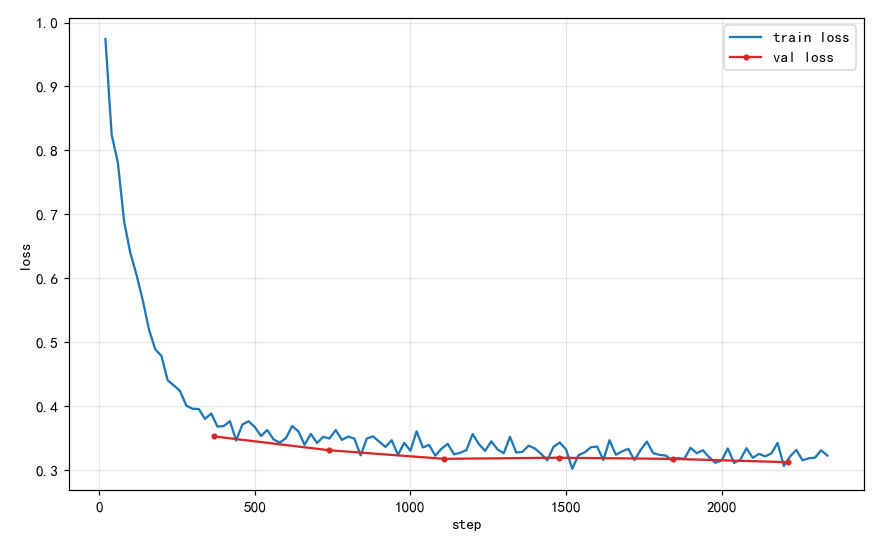
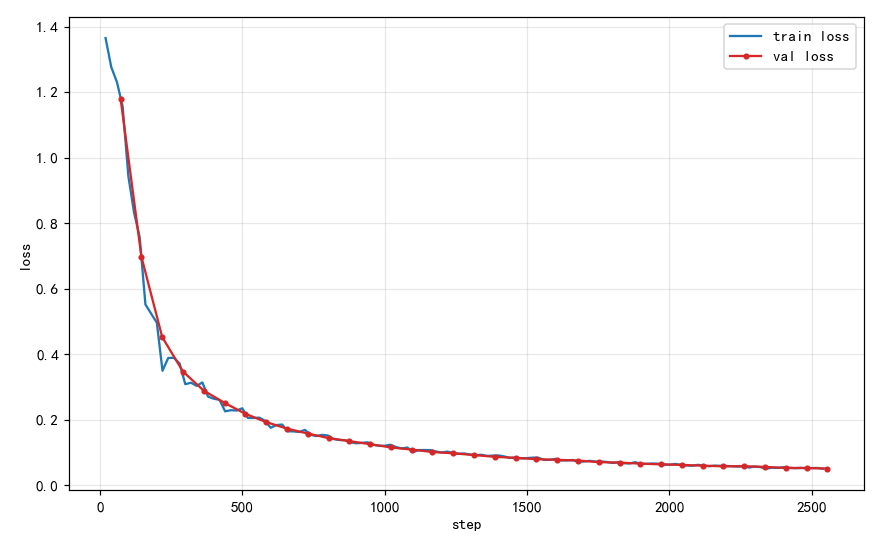
完成初步网络结构校验，但发现了一些问题需要改进的

diff --git a/original/my_track/train_tracker.py b/original/my_track/train_tracker.py
@@ -2,7 +2,7 @@ r"""
 跟踪关联网络前向函数 + 训练入口（自回归 + 冻结 M1）
 ==================================================
 本文件放：
-    - 前向逻辑  _forward_sequence / forward_batch / forward_batch_cold
+    - 前向逻辑  _forward_sequences / forward_batch / forward_batch_cold
     - 训练入口  main()（组装数据/模型/优化器后，调用 train.run_training 跑训练循环）
 
 训练方式（对应方案 A 冻结 M1 + 决策 D-ds2 自回归）：
@@ -55,64 +55,80 @@ from original.my_track.config import *                            # noqa: E402,F
 
 
 # ---------------------------------------------------------------------------
-# 单条序列的逐帧跟踪前向（训练/校验共用，逻辑与原单序列版完全一致）
+# 批量序列的逐帧跟踪前向（时间维自回归串行，batch 维 B 并行；训练/校验共用）
 # ---------------------------------------------------------------------------
-def _forward_sequence(coor_b, conf_b, feat_b, gt_b, bank, mapper, res_gru, scorer,
-                      clutter_weight=CLUTTER_WEIGHT, dt=DT, conf_threshold=CONF_THRESHOLD):
-    """对「一条序列」做逐帧 M2→M8 前向，返回 (损失和, 损失帧数, 分配统计)。
+def _forward_sequences(coor, conf, feat, gt, banks, mapper, res_gru, scorer,
+                       clutter_weight=CLUTTER_WEIGHT, dt=DT, conf_threshold=CONF_THRESHOLD, epoch=0):
+    """对 B 条序列做逐帧 M2→M8 前向，返回 (损失和, 损失帧数, 分配统计)。
+
+    与原单序列版逻辑完全一致，仅把「B 条序列各自 batch=1 前向」合并成
+    「每帧一次 batch=B 前向」：时间维 t 因自回归仍逐帧串行，batch 维 B
+    （序列间相互独立）拼进 M4/M5/M6 的 batch 维并行，把 B×(T-1) 次小 kernel
+    启动压缩为 (T-1) 次 batched 前向。
 
     Args:
-        coor_b  : [T, 50, 2]   该序列每帧量测中心（已由 M1 前向得到）
-        conf_b  : [T, 50, 2]   该序列每帧置信 logits
-        feat_b  : [T, 50, 128] 该序列每帧量测特征
-        gt_b    : [T, 3, 2]    真值中心（空槽 (0,0)）
-        bank    : TrackBank    该序列专属航迹库（M3+M8，无参数）
+        coor  : [B, T, 50, 2]   每条序列每帧量测中心（已由 M1 前向得到）
+        conf  : [B, T, 50, 2]   每条序列每帧置信 logits
+        feat  : [B, T, 50, 128] 每条序列每帧量测特征
+        gt    : [B, T, 3, 2]    真值中心（空槽 (0,0)）
+        banks : list[TrackBank] 长度 B，每条序列一个（M3+M8，无参数）
         mapper/res_gru/scorer : M4/M5/M6（可训练，跨序列共享）
 
     Returns:
-        total_loss : 标量张量（帧内损失累加，未除帧数；训练时带梯度）
-        n_frames   : int  参与损失的帧数（= T-1）
-        assign_hist: list[4] 类 0/1/2/3 的累计量测数（诊断用）
+        total_loss : 标量张量（各帧损失累加，未除帧数；训练时带梯度）
+        n_frames   : int  参与损失的帧数（= B*(T-1)）
+        assign_hist: list[4] 类 0/1/2/3 的累计量测数（合计 = B*(T-1)*50，首帧不计）
     """
-    T = coor_b.shape[0]
+    B, T = coor.shape[0], coor.shape[1]
     total_loss = 0.0
     n_frames = 0
     assign_hist = [0, 0, 0, 0]
 
     for t in range(T):
-        m_pos = coor_b[t]                           # [50,2] 本帧量测中心
-        m_score = F.softmax(conf_b[t], dim=-1)[..., 1]   # [50] 置信度 s_i
-        m_feat = feat_b[t]                          # [50,128] 量测特征 f_i
+        m_pos = coor[:, t]                              # [B,50,2] 本帧量测中心
+        m_score = F.softmax(conf[:, t], dim=-1)[..., 1] # [B,50] 置信度 s_i
+        m_feat = feat[:, t]                             # [B,50,128] 量测特征 f_i
 
         # 首帧只初始化航迹库，不参与损失（无历史可关联）
         if t == 0:
-            bank.init_from_measurements(m_pos, m_score, m_feat)
+            for b in range(B):
+                banks[b].init_from_measurements(m_pos[b], m_score[b], m_feat[b])
             continue
 
+        # 拼接 B 条序列的航迹侧状态，让 M4/M5/M6 一次 batched 前向（batch 维 = B）
+        bank_feat = torch.stack([banks[b].feat for b in range(B)], dim=0)  # [B,3,128]
+        bank_hist = torch.stack([banks[b].hist for b in range(B)], dim=0)  # [B,3,H,4]
+
         # M4 特征映射：量测侧 φ(f_i) 与航迹侧 φ(f_k) 共用同一映射
-        phi_i = mapper(m_feat.unsqueeze(0))         # [1,50,128]
-        phi_k = mapper(bank.feat.unsqueeze(0))      # [1,3,128]
+        phi_i = mapper(m_feat)                          # [B,50,128]
+        phi_k = mapper(bank_feat)                       # [B,3,128]
 
         # M5 几何残差 GRU：量测位置 × 航迹短历史 → 几何一致性特征
-        g_geom = res_gru(m_pos.unsqueeze(0), bank.hist.unsqueeze(0))   # [1,50,3,64]
+        g_geom = res_gru(m_pos, bank_hist)              # [B,50,3,64]
 
         # M6 融合打分：g_geom + 特征相似度 → 4 类打分（0 列杂波）
-        S = scorer(g_geom, phi_i, phi_k)            # [1,50,4]
+        S = scorer(g_geom, phi_i, phi_k)                # [B,50,4]
 
         # M7 监督 + 损失：置信度阈值先筛 + 匈牙利把 GT 槽位伪 ID 映射成量测类标签，加权 CE
-        labels = build_assignment_targets(m_pos.unsqueeze(0), gt_b[t].unsqueeze(0),
-                                          m_score.unsqueeze(0), threshold=conf_threshold)  # [1,50]
-        total_loss = total_loss + association_loss(S, labels, clutter_weight)
-        n_frames += 1
+        labels = build_assignment_targets(m_pos, gt[:, t], m_score,
+                                          threshold=conf_threshold)  # [B,50]
+        # 【口径】association_loss 的 CE 带 class_weights 时 mean 归约 = 除以「各元素
+        # 权值和」而非元素数；若对整批 [B,50] 做一次 mean，会按整批权值和归一化，与
+        # 原逐条版「每条先按自身权值和归一化再求和」量纲不同。故损失仍逐条算再求和
+        # （仅为 B 次极小的 CE kernel，并行收益来自 M4/M5/M6 的 batched 前向，无影响）。
+        for b in range(B):
+            total_loss = total_loss + association_loss(S[b:b + 1], labels[b:b + 1], clutter_weight, epoch=epoch)
+        n_frames += B
 
         # M8 自回归更新：用模型自己的决策（argmax + 1对1）更新航迹，detach 与推理一致
         with torch.no_grad():
-            assignments = associate(S)              # [1,50] ∈ {0,1,2,3}
-            bank.update(assignments[0], m_pos, m_feat, dt=dt)
+            assignments = associate(S)                  # [B,50] ∈ {0,1,2,3}
 
-        # 诊断：统计本帧分配分布
-        for c in range(4):
-            assign_hist[c] += (assignments[0] == c).sum().item()
+        # 逐条更新航迹状态（bank 是每条序列独立对象，非网络前向，开销可忽略）+ 诊断统计
+        for b in range(B):
+            banks[b].update(assignments[b], m_pos[b], m_feat[b], dt=dt)
+            for c in range(4):
+                assign_hist[c] += (assignments[b] == c).sum().item()
 
     return total_loss, n_frames, assign_hist
 
@@ -121,12 +137,12 @@ def _forward_sequence(coor_b, conf_b, feat_b, gt_b, bank, mapper, res_gru, score
 # 批处理前向：M1 批量化一次 + 逐条序列跟踪（训练/校验共用）
 # ---------------------------------------------------------------------------
 def forward_batch(signals, gt, model, banks, mapper, res_gru, scorer,
-                  clutter_weight=CLUTTER_WEIGHT, dt=DT, conf_threshold=CONF_THRESHOLD):
+                  clutter_weight=CLUTTER_WEIGHT, dt=DT, conf_threshold=CONF_THRESHOLD, epoch=0):
     """对 B 条序列做 M1→M8 前向，返回 (平均损失, 损失帧数, 分配统计)。
 
-    逻辑与单序列版完全一致，仅两处变化：
+    逻辑与原实现完全一致，仅两处变化：
         - M1 前端把 B 条序列的帧拼成 [B*T, 8, 89, 10] 一次前向（批量化提速）；
-        - 跟踪部分逐条序列独立跑，各用各的 TrackBank（多序列间无依赖，天然可并行）。
+        - 跟踪部分把 B 条序列拼进 batch 维，每帧一次 batched 前向（见 _forward_sequences）。
 
     Args:
         signals : [B, T, 8, 89, 10] complex64   B 条序列、各 T 帧信号
@@ -148,17 +164,9 @@ def forward_batch(signals, gt, model, banks, mapper, res_gru, scorer,
     conf = conf.reshape(B, T, 50, 2)                 # [B,T,50,2]
     feat = feat.reshape(B, T, 50, 128)               # [B,T,50,128]
 
-    total_loss = 0.0
-    n_frames = 0
-    assign_hist = [0, 0, 0, 0]
-    for b in range(B):
-        loss_b, n_b, ah_b = _forward_sequence(
-            coor[b], conf[b], feat[b], gt[b], banks[b], mapper, res_gru, scorer,
-            clutter_weight=clutter_weight, dt=dt, conf_threshold=conf_threshold)
-        total_loss = total_loss + loss_b
-        n_frames += n_b
-        for c in range(4):
-            assign_hist[c] += ah_b[c]
+    total_loss, n_frames, assign_hist = _forward_sequences(
+        coor, conf, feat, gt, banks, mapper, res_gru, scorer,
+        clutter_weight=clutter_weight, dt=dt, conf_threshold=conf_threshold, epoch=epoch)
 
     return total_loss / n_frames, n_frames, assign_hist
 
@@ -167,11 +175,11 @@ def forward_batch(signals, gt, model, banks, mapper, res_gru, scorer,
 # 批处理前向（冷启动）：直接用缓存 M1 输出，跳过 M1 前向（训练/校验共用）
 # ---------------------------------------------------------------------------
 def forward_batch_cold(out, conf, feat, gt, banks, mapper, res_gru, scorer,
-                       clutter_weight=CLUTTER_WEIGHT, dt=DT, conf_threshold=CONF_THRESHOLD):
+                       clutter_weight=CLUTTER_WEIGHT, dt=DT, conf_threshold=CONF_THRESHOLD, epoch=0):
     """冷启动：对 B 条序列的「缓存 M1 输出」做 M2→M8 前向，返回 (平均损失, 损失帧数, 分配统计)。
 
     与 forward_batch 的区别：省掉 M1 前向（out/conf/feat 已由缓存加载好），
-    跟踪部分逐条序列复用 _forward_sequence，逻辑完全一致。
+    跟踪部分复用 _forward_sequences（batch 维并行），逻辑完全一致。
 
     Args:
         out  : [B, T, 50, 4]   缓存 M1 最终输出（前 2 列 = 中心坐标，后 2 列冗余未用）
@@ -187,17 +195,10 @@ def forward_batch_cold(out, conf, feat, gt, banks, mapper, res_gru, scorer,
     """
     B, T = out.shape[0], out.shape[1]
     coor = out[..., :2]                               # [B,T,50,2] 中心坐标
-    total_loss = 0.0
-    n_frames = 0
-    assign_hist = [0, 0, 0, 0]
-    for b in range(B):
-        loss_b, n_b, ah_b = _forward_sequence(
-            coor[b], conf[b], feat[b], gt[b], banks[b], mapper, res_gru, scorer,
-            clutter_weight=clutter_weight, dt=dt, conf_threshold=conf_threshold)
-        total_loss = total_loss + loss_b
-        n_frames += n_b
-        for c in range(4):
-            assign_hist[c] += ah_b[c]
+
+    total_loss, n_frames, assign_hist = _forward_sequences(
+        coor, conf, feat, gt, banks, mapper, res_gru, scorer,
+        clutter_weight=clutter_weight, dt=dt, conf_threshold=conf_threshold, epoch=epoch)
 
     return total_loss / n_frames, n_frames, assign_hist
 
@@ -246,11 +247,11 @@ def main():
         train_ds = load_track_sequence_cold_dataset(
             TRAIN_ROOT, os.path.join(CACHE_ROOT, 'fast_dataset_multi_train'), WINDOW_SIZE, STRIDE)
         val_ds = load_track_sequence_cold_dataset(
-            VAL_ROOT, os.path.join(CACHE_ROOT, 'fast_dataset_multi_test'), WINDOW_SIZE, STRIDE)
+            VAL_ROOT, os.path.join(CACHE_ROOT, 'fast_dataset_multi_test'), WINDOW_SIZE, WINDOW_SIZE-1)
     else:
         train_ds = load_track_sequence_dataset(TRAIN_ROOT, WINDOW_SIZE, STRIDE, add_noise=ADD_NOISE)
-        val_ds = load_track_sequence_dataset(VAL_ROOT, WINDOW_SIZE, STRIDE, add_noise=False)
-    train_loader = DataLoader(train_ds, batch_size=BATCH_SIZE, shuffle=False,
+        val_ds = load_track_sequence_dataset(VAL_ROOT, WINDOW_SIZE, WINDOW_SIZE - 1, add_noise=False)
+    train_loader = DataLoader(train_ds, batch_size=BATCH_SIZE, shuffle=True,
                               drop_last=True, num_workers=8)
     val_loader = DataLoader(val_ds, batch_size=BATCH_SIZE, shuffle=False,
                             drop_last=False, num_workers=8)

diff --git a/original/my_track/train.py b/original/my_track/train.py
@@ -7,7 +7,7 @@ r"""
     - _plot_loss     训练/校验损失曲线 PNG
 
 文件分工：
-    超参在 config.py；前向函数（_forward_sequence / forward_batch / forward_batch_cold）
+    超参在 config.py；前向函数（_forward_sequences / forward_batch / forward_batch_cold）
     与训练入口 main() 在 train_tracker.py。本文件只被 train_tracker.main 调用，不含入口。
 """
 import os
@@ -26,7 +26,7 @@ from original.my_track.train_tracker import forward_batch, forward_batch_cold  #
 # ---------------------------------------------------------------------------
 # 校验（无梯度）
 # ---------------------------------------------------------------------------
-def evaluate(val_loader, model, mapper, res_gru, scorer, banks, is_cold=IS_COLD, max_win=MAX_VAL_WIN):
+def evaluate(val_loader, model, mapper, res_gru, scorer, banks, epoch=0, is_cold=IS_COLD, max_win=MAX_VAL_WIN):
     """校验：无梯度跑一遍 val_loader，返回平均损失。
 
     is_cold=True 时 model=None，val_loader 产出 4 元组 (out,conf,feat,gt)，走冷启动前向；
@@ -45,13 +45,13 @@ def evaluate(val_loader, model, mapper, res_gru, scorer, banks, is_cold=IS_COLD,
                 conf = conf.to(device)
                 feat = feat.to(device)
                 gt = gt.to(device)
-                loss, n, _ = forward_batch_cold(out, conf, feat, gt, banks, mapper, res_gru, scorer)
+                loss, n, _ = forward_batch_cold(out, conf, feat, gt, banks, mapper, res_gru, scorer, epoch=epoch)
                 seen += out.shape[0]
             else:
                 signals, gt = batch                       # [B,T,8,89,10]/[B,T,3,2]
                 signals = signals.to(device)
                 gt = gt.to(device)
-                loss, n, _ = forward_batch(signals, gt, model, banks, mapper, res_gru, scorer)
+                loss, n, _ = forward_batch(signals, gt, model, banks, mapper, res_gru, scorer, epoch=epoch)
                 seen += signals.shape[0]
             total += loss.item() * n
             cnt += n
@@ -122,13 +122,13 @@ def run_training(device, model, mapper, res_gru, scorer, optimizer,
                 feat = feat.to(device)
                 gt = gt.to(device)
                 loss, n, assign_hist = forward_batch_cold(
-                    out, conf, feat, gt, banks, mapper, res_gru, scorer)
+                    out, conf, feat, gt, banks, mapper, res_gru, scorer, epoch=epoch)
             else:
                 signals, gt = batch                  # [B,T,8,89,10]/[B,T,3,2]
                 signals = signals.to(device)
                 gt = gt.to(device)
                 loss, n, assign_hist = forward_batch(
-                    signals, gt, model, banks, mapper, res_gru, scorer)
+                    signals, gt, model, banks, mapper, res_gru, scorer, epoch=epoch)
             loss.backward()
             optimizer.step()
 
@@ -162,7 +162,7 @@ def run_training(device, model, mapper, res_gru, scorer, optimizer,
         print()
 
         # ---- 每 epoch 校验 ----
-        val_loss = evaluate(val_loader, model, mapper, res_gru, scorer, banks)
+        val_loss = evaluate(val_loader, model, mapper, res_gru, scorer, banks, epoch=epoch)
         val_hist.append((global_step, val_loss))
         print(f'=== epoch {epoch}/{EPOCHS} 结束: val_loss={val_loss:.4f}  '
               f'best={best_val:.4f} ===', flush=True)

diff --git a/original/my_track/association.py b/original/my_track/association.py
@@ -22,6 +22,8 @@ import torch
 import torch.nn.functional as F
 from scipy.optimize import linear_sum_assignment
 
+from original.my_track.config import CLUTTER_WEIGHT_STEP  # λ 随 epoch 步进的步进量
+
 
 # ---------------------------------------------------------------------------
 # 1) 关联决策（推理）
@@ -127,18 +129,20 @@ def build_assignment_targets(pred_boxes, targets, scores, threshold=0.96):
 # ---------------------------------------------------------------------------
 # 3) 关联损失（训练）需要优化
 # ---------------------------------------------------------------------------
-def association_loss(S, labels, clutter_weight=1.0):
+def association_loss(S, labels, clutter_weight=1.0, epoch=0):
     """加权交叉熵损失（论文式）。
 
     Args:
         S              : [B, 50, 4] 打分矩阵（第 0 列杂波，1..3 列航迹）
         labels         : [B, 50]    真值类标签 ∈ {0,1,2,3}
         clutter_weight : float      杂波类权重 λ（>1 增强杂波识别惩罚，见任务书 §3 M7）
+        epoch          : int        当前 epoch（1 起）；>0 时 λ 按 CLUTTER_WEIGHT_STEP 随 epoch 步进
 
     Returns:
         loss : 标量
     """
-    # 类权重：杂波类乘 λ，航迹类为 1
+    # 类权重：杂波类乘 λ；λ 随 epoch 步进（epoch=1 用基准 λ，之后每 epoch 增加 CLUTTER_WEIGHT_STEP）
+    clutter_weight = clutter_weight + max(0, epoch - 1) * CLUTTER_WEIGHT_STEP
     class_weights = torch.tensor([clutter_weight, 1.0, 1.0, 1.0],
                                  device=S.device, dtype=S.dtype)
     return F.cross_entropy(S.reshape(-1, 4), labels.reshape(-1), weight=class_weights)

diff --git a/original/my_track/config.py b/original/my_track/config.py
@@ -21,9 +21,9 @@ OUT_DIR      = os.path.join(os.path.dirname(os.path.abspath(__file__)), 'runs')
 IS_COLD     = True
 CACHE_ROOT  = r'E:\Jupyter\NewMOTR数据集'   # M1 缓存根目录；其下与原始同名 fast_dataset_multi_train/_test
 
-WINDOW_SIZE  = 20      # 短序列长度（帧）
-STRIDE       = 10      # 滑窗步长（overlap = 20 - 10 = 10）
-HIST_LEN     = 6       # 短历史长度 H
+WINDOW_SIZE  = 50      # 短序列长度（帧）
+STRIDE       = 25      # 滑窗步长（overlap = 20 - 10 = 10）
+HIST_LEN     = 20       # 短历史长度 H
 NUM_TRACKS   = 3       # 航迹槽位数 N（= 最多人数）
 FEAT_DIM     = 128     # dec_output 特征维度
 BATCH_SIZE   = 32      # 每步并行的序列数（batch）；越大 GPU 占用越高，按显存调
@@ -31,7 +31,8 @@ BATCH_SIZE   = 32      # 每步并行的序列数（batch）；越大 GPU 占用
 EPOCHS         = 50
 LR             = 1e-3
 CLUTTER_WEIGHT = 0.01   # 杂波类 CE 权重 λ（<1 = 压背景权重，让前景/航迹项主导损失；别设 0，否则不学拒绝杂波）
-DT             = 0.25  # 帧间隔（秒）
+CLUTTER_WEIGHT_STEP = 0.03   # λ 每 epoch 的步进量：λ(epoch)=CLUTTER_WEIGHT+(epoch-1)*STEP；正=递增、负=递减、0=关闭
+DT             = 0.24  # 帧间隔（秒）
 CONF_THRESHOLD = 0.96  # 量测置信度阈值 τ：s_i≥τ 才作为候选目标参与匹配（前端定位标定值）
 ADD_NOISE      = True
 MAX_VAL_WIN    = None  # 每 epoch 校验窗口数上限；None=全量（慢时可设 200）

diff --git a/experiments/跟踪任务书.md b/experiments/跟踪任务书.md
@@ -222,3 +222,71 @@
 - `SPEC.md` §1/§4 的「24–25ms」仍为旧值，需按 `Δt=0.24s` 修正（任务 0）。
 - `original/abilitycalculate/__init__.py` 残留注释 import + 未用 import；`123ren.py` 的 `heatmap_size1` 未用 —— 与跟踪无关，暂不动。
 - `dec_output` 只被单帧定位损失监督，跨帧身份一致性未验证 —— 这是 D1 决策的核心风险。
+
+---
+
+## 9. 问题复盘与方向重规划（v2 草稿 · 待审核）
+
+> 状态：**草稿，待作者审核 + 深度讨论后定稿。**
+> 代码基线：commit `8917783`（`fix+refactor: 修复全0分配根因 + 训练脚本拆分 + 冷启动缓存训练`）；
+> 工作区另有未提交改动（`original/my_track/*`、`experiments/*`），复盘以当前工作区代码为准。
+> 本节是对「已实现版本（§2–§8）」训练与推理行为的复盘，结论来自代码级核对 + 测试集评测。
+> 目标：先把「当前到底学了什么 / 哪里没规划完整」说清楚，再决定下一步怎么改。
+
+### 9.1 当前版本充分训练后实际学到什么
+
+训练目标唯一一条：`加权CE(S, labels)`，其中 `labels = build_assignment_targets(...)`，
+而 `build_assignment_targets` 是一段**手写启发式规则**：
+
+1. `s_i ≥ τ(=0.96)` 的量测 = 候选，其余 → 杂波（类 0）；
+2. 候选与有效 GT 槽位做**欧氏距离匈牙利**匹配 → 赋槽位类（1/2/3）；
+3. 多余的候选 → 赋最近 GT 槽位的类。
+
+因此充分训练后，网络收敛到**复现这条规则**——即「对每个量测，预测①它是不是置信度低于 τ 的杂波；
+②若是目标，离哪个 GT 槽位最近」，而非「学会跟踪」。
+
+### 9.2 已确认的问题清单
+
+#### A. 目标函数 / 监督信号层（根因所在）
+
+| # | 问题 | 影响 |
+|---|---|---|
+| 1 | M1 之后无任何位置回归损失；航迹位置 = M1 量测的 EMA | 无法纠正 M1 定位误差，量测偏则航迹偏 |
+| 2 | 身份特征 φ(f) 从未被监督做跨帧身份（labels 只用位置+置信度） | 身份分支形同虚设（§8 D1 风险已兑现） |
+| 3 | labels 用硬阈值 τ=0.96 划杂波，但网络输入不含 s_i | 目标与输入存在信息缺口；硬阈值损失多种可能 |
+| 4 | 雷达遮挡 → M1 漏检（高置信度量测 < 真人数）时，被漏目标的槽位类不进入 labels | GT 标签始终完整（空槽仅=序列人数<3，非遮挡），但被漏目标无人可匹配 → 无可学内容，仅硬编码 coast |
+| 5 | labels 每帧独立生成，无任何跨帧/时间监督项 | GRU 历史读了但无独立价值 |
+| 6 | ~~「类 j = 身份 j」依赖 GT 槽位顺序跨帧稳定~~ | ✅ 已确认不成立：文件夹内槽位顺序固定（作者确认 + 数据抽查），关闭 |
+
+#### B. 结构 / 状态机层
+
+| # | 问题 | 影响 |
+|---|---|---|
+| 7 | 量测间无通信（M4 逐点 Linear，无 attention） | 无全局视野，每量测独立分类 |
+| 8 | 航迹间无通信（互斥仅在推理 associate 硬做） | 无显式协调（是否必要，待讨论） |
+| 9 | 训练(τ 阈值) 与 推理(不门控) 的杂波口径不一致 | 训练教一套、推理用另一套 |
+| 10 | 出生/死亡缺失，alive 门控未实现 | 3 航迹永远存活，人数 <3 时多余航迹永久 coast |
+| 11 | f_i 是定位特征，非身份特征 | 特征相似度可能不含身份信号 |
+| 12 | 自回归无 teacher forcing（exposure bias） | 训练不稳（暂缓处理） |
+
+**数据核实（2026-10-20）**：抽查测试集两个文件夹——`20240913_1_1`（1245 帧，恒 1 人）、
+`20240916_2_3`（2494 帧，恒 2 人，其中 58 帧雷达遮挡）。两文件夹内 GT 槽位集合跨帧恒定
+（槽位顺序固定 → A-6 关闭）；且**遮挡帧的 GT 槽位仍填满真实坐标**——遮挡只发生在雷达信号侧，
+标签侧无遮挡。故 A-4 的真实场景 = 「雷达遮挡 → M1 漏检，但 GT 完整」。
+
+### 9.3 作者最新意见（方向性）
+
+- **置信度 s_i 是好参考，但不可硬编码阈值**：保留为软信号，而非 τ 一刀切（对应 A-3）。
+- **通信优先补两处**（直观、易实现）：
+  1. 量测 ↔ 量测通信（50 个量测相互 attention）；
+  2. 历史 ↔ 当前帧通信（航迹历史与当前量测的时序 attention）。
+  航迹 ↔ 航迹通信较复杂，**暂缓**。
+- **航迹状态机必须完善**（对应 B-10）：出生/死亡/存活要有完整模块描述，当前实现过于简单。
+
+### 9.4 待深度讨论（定稿前须拍板）
+
+- 身份标签是否**跨帧生成**（而非每帧独立位置最近邻）？
+- 位置是否加**回归项**（回归偏移头 / 位置回归损失）？
+- 是否做**多量测软融合**维护最终位置 + ID（track query 式）？
+- **雷达遮挡漏检帧**给网络一个可学习目标（GT 完整但 M1 漏检时，coast 是否可学习）？
+- ~~GT 槽位顺序稳定性~~ → 已确认固定（关闭）。
